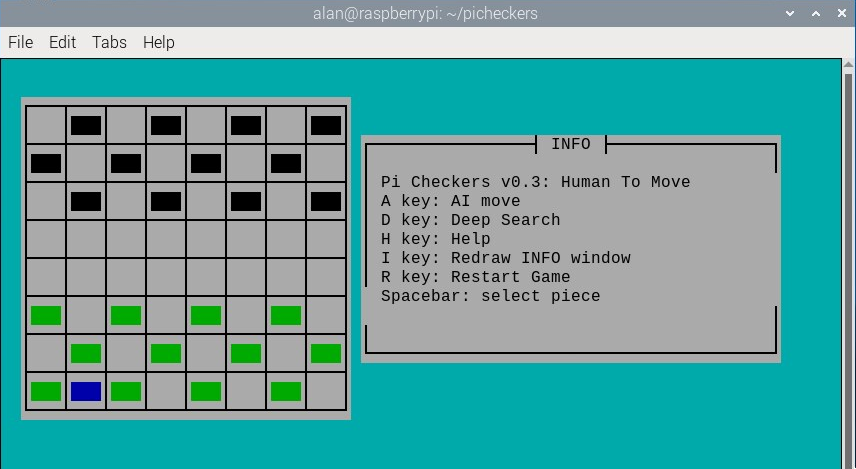
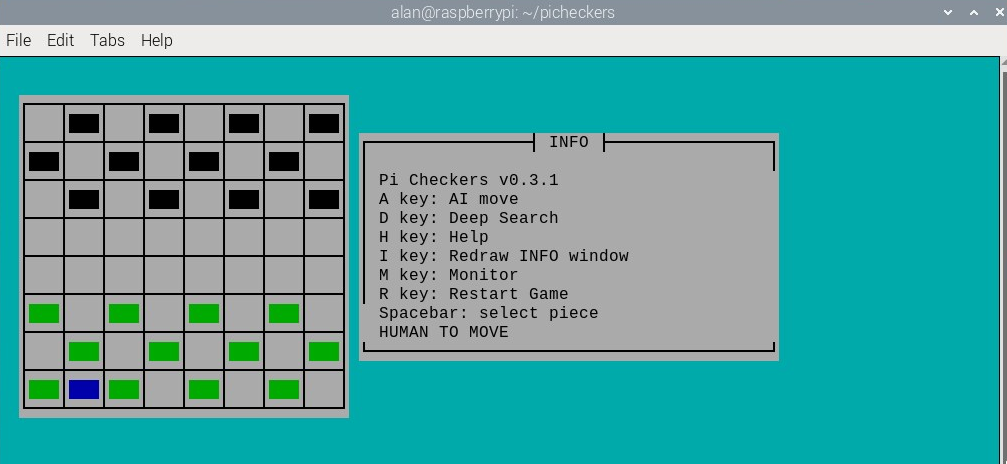
Pi Checkers version 0.3.1
[build]: C and ncurses 6.4-4 (Raspberry Pi 4)
[fix]: depth monitor
[feat]: binary for Raspberry Pi4 OS (64 bit)
[docs]: readme documentation

Changed region(s): [[0.0, 0.181, 0.9112, 0.9052], [0.0, 0.0, 1.0, 1.0]]

diff --git a/src/main.c b/src/main.c
@@ -70,6 +70,7 @@ int main(int argc, char **argv)
 	int x=1;
 	int y=0;
 	bool m_deep_search=FALSE;
+	bool watch_monitor=TRUE;
 	bool m_first_press=TRUE;
 	int m_side =HUMAN;	
 	int ch=0;	
@@ -80,13 +81,15 @@ int main(int argc, char **argv)
 	init_all();
 	
 	create_info_win();
-	mvwprintw(info_win, 2, 2, "Pi Checkers v0.3: Human To Move         ");
+	mvwprintw(info_win, 2, 2, "Pi Checkers v0.3.1                      ");
 	mvwprintw(info_win, 3, 2, "A key: AI move                          ");
 	mvwprintw(info_win, 4, 2, "D key: Deep Search                      ");
 	mvwprintw(info_win, 5, 2, "H key: Help                             ");
 	mvwprintw(info_win, 6, 2, "I key: Redraw INFO window               ");
-	mvwprintw(info_win, 7, 2, "R key: Restart Game                      ");
-	mvwprintw(info_win, 8, 2, "Spacebar: select piece                   ");
+	mvwprintw(info_win, 7, 2, "M key: Monitor                          ");
+	mvwprintw(info_win, 8, 2, "R key: Restart Game                      ");
+	mvwprintw(info_win, 9, 2, "Spacebar: select piece                   ");
+	mvwprintw(info_win, 10, 2, "HUMAN TO MOVE                           ");
 	wrefresh(info_win);
   
     
@@ -120,7 +123,7 @@ int main(int argc, char **argv)
 				 m_deep_search=TRUE; //toggle
 			 }
 			 else {
-				  max_depth=8;
+				 max_depth=8;
 				 m_deep_search=FALSE; //toggle				 
 			 }
 			 
@@ -142,6 +145,35 @@ int main(int argc, char **argv)
 			wrefresh(info_win);
 		}
 		
+		else if(ch == 109){ //m key
+			//monitor -todo
+			if(watch_monitor ==FALSE)
+			 {	
+				 set_monitor(TRUE);
+				 watch_monitor=TRUE;
+				 clear_info_window();
+				 mvwprintw(info_win, 2, 2, "DEPTH MONITOR ON ");
+				 if(m_side ==HUMAN) 				 
+			     mvwprintw(info_win, 3, 2, "HUMAN TO MOVE                  ");			
+			     else 
+			     mvwprintw(info_win, 3, 2, "AI TO MOVE (PRESS A KEY)       ");
+			     wrefresh(info_win);
+			 }
+			 else {
+				  
+				 //deep_monitor=FALSE; //toggle
+				 set_monitor(FALSE);
+				 watch_monitor=FALSE;
+				 clear_info_window();
+				 mvwprintw(info_win, 2, 2, "DEPTH MONITOR OFF ");
+				 if(m_side ==HUMAN) 				 
+			     mvwprintw(info_win, 3, 2, "HUMAN TO MOVE                  ");			
+			     else 
+			     mvwprintw(info_win, 3, 2, "AI TO MOVE (PRESS A KEY)       ");
+			     wrefresh(info_win);				 
+			 }
+			
+		}
 		
 		else if(ch == 104){ //h key
 			
@@ -151,12 +183,13 @@ int main(int argc, char **argv)
 			mvwprintw(info_win, 4, 2, "D key: Deep Search                      ");
 			mvwprintw(info_win, 5, 2, "H key: Help                             ");
 			mvwprintw(info_win, 6, 2, "I key: Redraw INFO window               ");
-			mvwprintw(info_win, 7, 2, "R key: Restart Game                      ");
-			mvwprintw(info_win, 8, 2, "Spacebar: select piece                   ");
+			mvwprintw(info_win, 7, 2, "M key: Monitor                          ");
+			mvwprintw(info_win, 8, 2, "R key: Restart Game                      ");
+			mvwprintw(info_win, 9, 2, "Spacebar: select piece                   ");
 			
 			if(m_side ==HUMAN) 
-			mvwprintw(info_win, 9, 2, "HUMAN TO MOVE                  ");
-			else mvwprintw(info_win, 9, 2, "AI TO MOVE (PRESS A KEY)       ");
+			mvwprintw(info_win, 10, 2, "HUMAN TO MOVE                  ");
+			else mvwprintw(info_win, 10, 2, "AI TO MOVE (PRESS A KEY)       ");
 			
 			wrefresh(info_win);		
 		}
@@ -169,12 +202,13 @@ int main(int argc, char **argv)
 			mvwprintw(info_win, 4, 2, "D key: Deep Search                      ");
 			mvwprintw(info_win, 5, 2, "H key: Help                             ");
 			mvwprintw(info_win, 6, 2, "I key: Redraw INFO window               ");
-			mvwprintw(info_win, 7, 2, "R key: Restart Game                      ");
-			mvwprintw(info_win, 8, 2, "Spacebar: select piece                   ");
+			mvwprintw(info_win, 7, 2, "M key: Monitor                          ");
+			mvwprintw(info_win, 8, 2, "R key: Restart Game                      ");
+			mvwprintw(info_win, 9, 2, "Spacebar: select piece                   ");
 						
 			if(m_side ==HUMAN) 
-			     mvwprintw(info_win, 9, 2, "HUMAN TO MOVE                  ");
-			else mvwprintw(info_win, 9, 2, "AI TO MOVE (PRESS A KEY)       ");
+			     mvwprintw(info_win, 10, 2, "HUMAN TO MOVE                  ");
+			else mvwprintw(info_win, 10, 2, "AI TO MOVE (PRESS A KEY)       ");
 			
 			wrefresh(info_win);		
 		}
@@ -202,9 +236,10 @@ int main(int argc, char **argv)
 		mvwprintw(info_win, 4, 2, "D key: Deep Search                      ");
 		mvwprintw(info_win, 5, 2, "H key: Help                             ");
 		mvwprintw(info_win, 6, 2, "I key: Redraw INFO window               ");
-		mvwprintw(info_win, 7, 2, "R key: Restart Game                      ");
-		mvwprintw(info_win, 8, 2, "Spacebar: select piece                   ");		
-		mvwprintw(info_win, 9, 2, "HUMAN TO MOVE                  ");
+		mvwprintw(info_win, 7, 2, "M key: Monitor                          ");
+		mvwprintw(info_win, 8, 2, "R key: Restart Game                      ");
+		mvwprintw(info_win, 9, 2, "Spacebar: select piece                   ");		
+		mvwprintw(info_win, 10, 2, "HUMAN TO MOVE                  ");
 		wrefresh(info_win);		
 		}
 		
@@ -301,7 +336,7 @@ int main(int argc, char **argv)
 		
 		if(m_deep_search){
 		mvwprintw(info_win, 3, 2, "AI TO MOVE (PRESS A KEY & WAIT)      ");
-		mvwprintw(info_win, 4, 2, "DEEP SEARCH (TAKES TIME): DEPTH = %d  ",max_depth);
+		mvwprintw(info_win, 4, 2, "DEEP SEARCH (LONG TIME): MAXDEPTH = %d",max_depth);
 		}
 		else {
 		mvwprintw(info_win, 3, 2, "AI TO MOVE (PRESS A KEY)              ");

diff --git a/src/gameboard.c b/src/gameboard.c
@@ -28,6 +28,8 @@ WINDOW *info_win;
 #define PLAYER1 1
 #define PLAYER2 2
 
+bool depth_monitor =TRUE;
+
 //======================================================================
 void clear_board(int board[][BOARD_SIZE])
 {	
@@ -214,6 +216,14 @@ void create_info_win()
 	touchwin(info_win);
 	wrefresh(info_win);
 }
+//=====================================================================
+
+void set_monitor(bool value)
+{
+	depth_monitor=value;
+}
+
+
 //=====================================================================
 bool move_white(int board[][BOARD_SIZE], int x1, int y1, int x2, int y2)
 {
@@ -1430,6 +1440,12 @@ int evaluate_position(int board[BOARD_SIZE][BOARD_SIZE])
 // minimax jump algorithm with alpha-beta prunning
 int minimax_jumps(int board[BOARD_SIZE][BOARD_SIZE], int maxDepth, int depth, int turn, int alpha, int beta) 
 {
+	
+	if(depth_monitor)
+	{
+	mvwprintw(info_win, 8, 2, "Depth Monitor: %d                   ",depth);
+	wrefresh(info_win);
+     }
 	// when max depth is reached, start evaluating the position
 	if (depth == maxDepth) {
 		return evaluate_position(board);	

diff --git a/src/gameboard.h b/src/gameboard.h
@@ -25,6 +25,9 @@
 
 #define BOARD_SIZE 8
 
+//bool depth_monitor =TRUE;
+void set_monitor(bool value);
+
 void init_board(int board[][BOARD_SIZE]);
 void clear_board(int board[][BOARD_SIZE]);
 void init_all(void);

diff --git a/README.md b/README.md
@@ -58,7 +58,7 @@ Use cntl+C to finish.
 
 ## AI
 
-The AI uses a [minimax](https://en.wikipedia.org/wiki/Minimax) algorithm. The minimax algorithm takes piece capture mechanics into account.
+The AI uses a [minimax](https://en.wikipedia.org/wiki/Minimax) algorithm. There is a MIT OpenCourseWare lecture on the minimax algorithm [here](https://www.youtube.com/watch?v=STjW3eH0Cik&t=13s). My minimax algorithm takes piece capture mechanics into account.
 
 ![](pi-checkers-ai.png) 
 
@@ -144,3 +144,5 @@ Active.
 * [Raspberry Pi Foundation](https://www.raspberrypi.org/)
 
 * [Geany](https://www.geany.org/) is a lightweight source-code editor [GPL v2 license](https://www.gnu.org/licenses/old-licenses/gpl-2.0.txt)
+
+* [MIT OpenCourseWare Lecture. Search: Games, Minimax and Alpha-Beta](https://www.youtube.com/watch?v=STjW3eH0Cik&t=13s)
